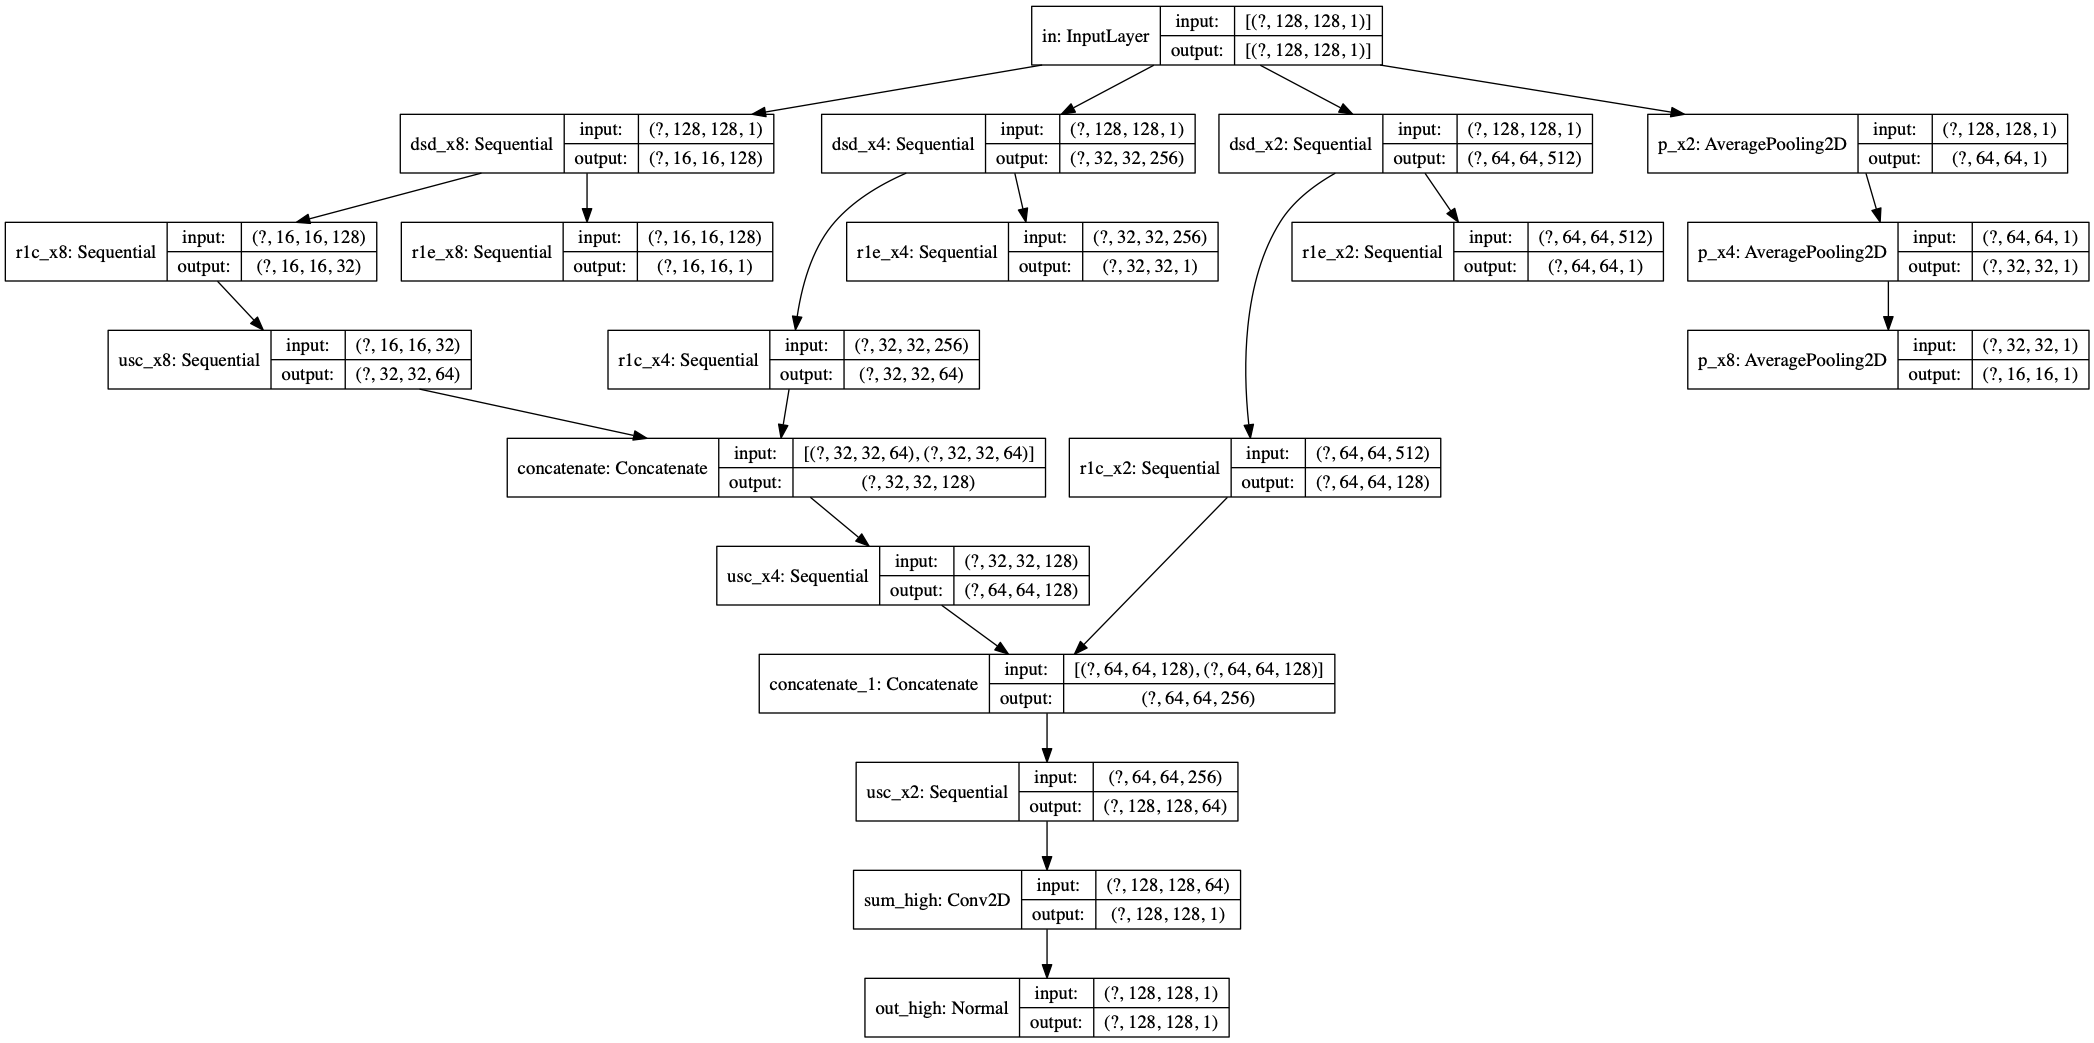
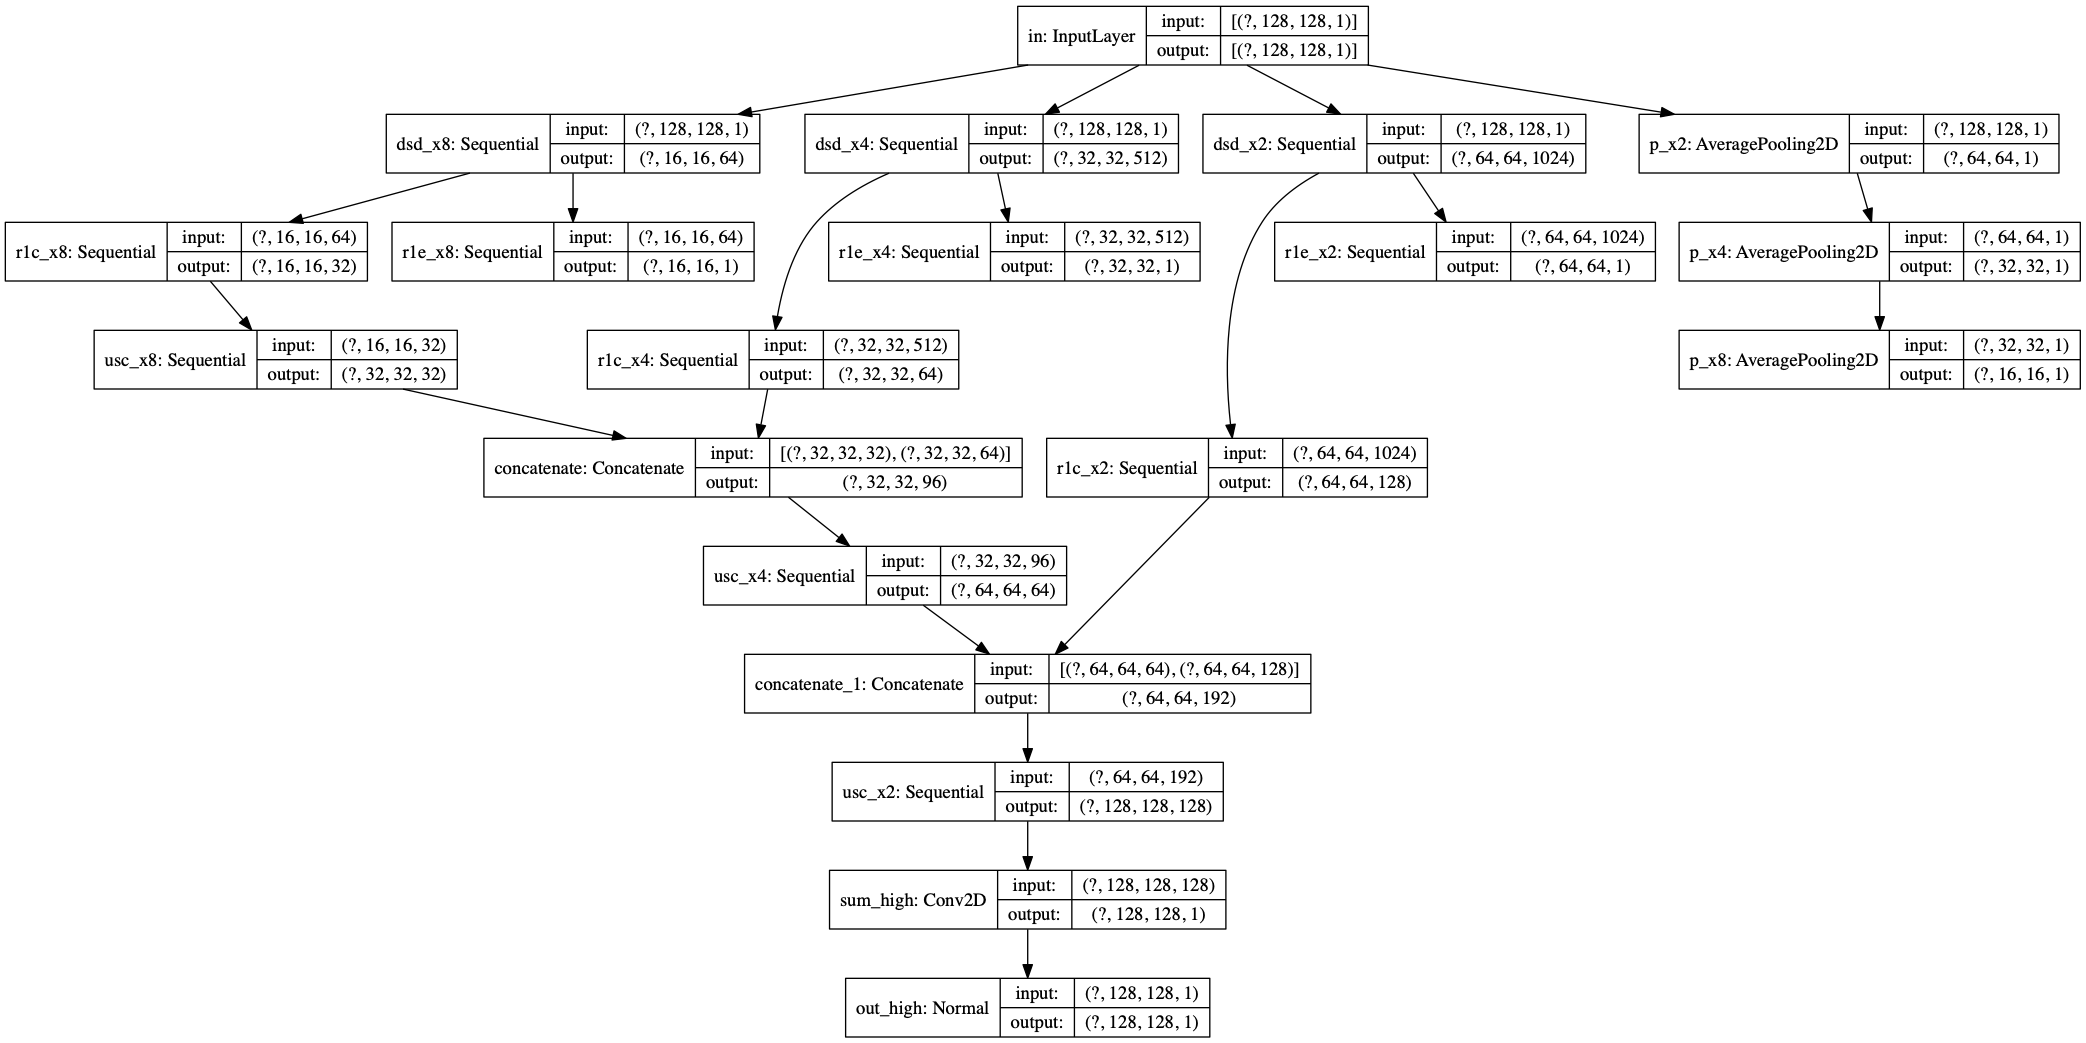
update model 4 # filters

diff --git a/model.py b/model.py
@@ -229,17 +229,17 @@ def make_generator_model(len_high_size=128, scale=4):
     low_x8 = tf.keras.layers.AveragePooling2D(
         pool_size=(2, 2), strides=2, padding='valid', name='p_x8')(low_x4)
 
-    dsd_x8 = downsample_decomposition(len_low_size_x8, 8, 128, name='dsd_x8')
+    dsd_x8 = downsample_decomposition(len_low_size_x8, 8, 64, name='dsd_x8')
     rech_x8 = dsd_x8(inp)
     r1c = rank1channels_convolution(filters=32, name='r1c_x8')
     sym_x8 = r1c(rech_x8)
     r1e = rank1_estimation(dims=len_low_size_x8, name='r1e_x8')
     out_low_x8 = r1e(rech_x8)
 
-    usc_x8 = upsample_convolution(64, 2, name='usc_x8')
+    usc_x8 = upsample_convolution(32, 2, name='usc_x8')
     sym_x8 = usc_x8(sym_x8)
 
-    dsd_x4 = downsample_decomposition(len_low_size_x4, 4, 256, name='dsd_x4')
+    dsd_x4 = downsample_decomposition(len_low_size_x4, 4, 512, name='dsd_x4')
     rech_x4 = dsd_x4(inp)
     r1c = rank1channels_convolution(filters=64, name='r1c_x4')
     sym_x4 = r1c(rech_x4)
@@ -248,10 +248,10 @@ def make_generator_model(len_high_size=128, scale=4):
 
     concat = tf.keras.layers.concatenate([sym_x8, sym_x4], axis=-1)
 
-    usc_x4 = upsample_convolution(128, 2, name='usc_x4')
+    usc_x4 = upsample_convolution(64, 2, name='usc_x4')
     sym_x4 = usc_x4(concat)
 
-    dsd_x2 = downsample_decomposition(len_low_size_x2, 2, 512, name='dsd_x2')
+    dsd_x2 = downsample_decomposition(len_low_size_x2, 2, 1024, name='dsd_x2')
     rech_x2 = dsd_x2(inp)
     r1c_x2 = rank1channels_convolution(filters=128, name='r1c_x2')
     sym_x2 = r1c_x2(rech_x2)
@@ -260,7 +260,7 @@ def make_generator_model(len_high_size=128, scale=4):
 
     concat = tf.keras.layers.concatenate([sym_x4, sym_x2], axis=-1)
 
-    usc_x2 = upsample_convolution(64, 2, name='usc_x2')
+    usc_x2 = upsample_convolution(128, 2, name='usc_x2')
     sym = usc_x2(concat)
 
     Sumh = tf.keras.layers.Conv2D(filters=1, kernel_size=(1, 1),
